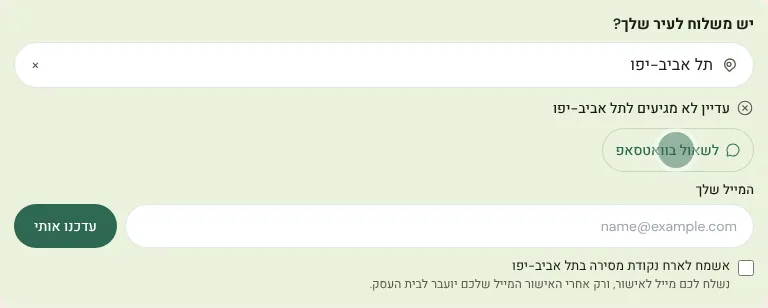
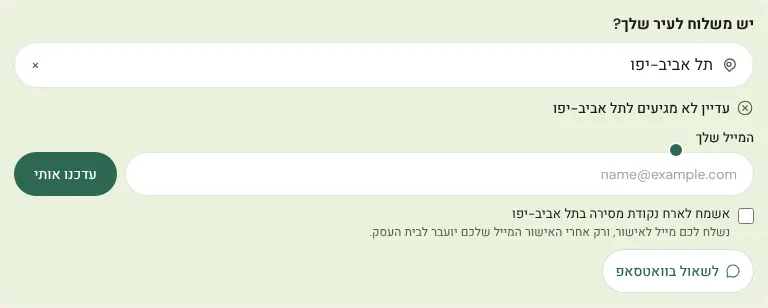
fix(delivery): chips in DOM order instead of CSS order (MEH-2709 review)
The reviewer pointed out that `order-first`/`order-last` made the tab and
screen-reader order differ from the visual one. Render the waitlist first
in the JSX and drop `order-*`; when it opens, the form takes the row and
the WhatsApp chip wraps below it. New test pins the DOM order (red on the
previous commit, green now). Screenshots retaken. Dropped a history
parenthetical from the insights comment.

Builder-Model: claude-opus-5-5
Claude-Session: https://claude.ai/code/session_01X8DSqV4YUbFZZP18QxbuCR

Changed region(s): [[0.0, 0.4091, 1.0, 0.9643]]

diff --git a/frontend/components/DeliveryChecker.jsx b/frontend/components/DeliveryChecker.jsx
@@ -200,11 +200,13 @@ export default function DeliveryChecker({
                 page in every state. */}
             {/* MEH-2709: the two follow-ups sit as one row of chips under
                 the verdict (it already names the city, so they don't repeat
-                it). The waitlist chip is visually first via `order`; once it
-                opens into a form it takes a full row of its own below. */}
+                it). DOM order = visual order (waitlist first), so keyboard
+                and screen-reader order match what is seen. Once the waitlist
+                opens into a form it takes a full row and the WhatsApp chip
+                wraps below it. `empty:hidden`: both children return null
+                (no element at all) when they have nothing to offer. */}
             {result.status === "no" && (
               <div className="mt-2.5 flex flex-wrap gap-2 empty:hidden" data-testid="delivery-checker-no-actions">
-                <CoverageRequestCta producer={producer} city={result.city} />
                 {/* MEH-2618: the no-account waitlist, same single mount rule.
                     Keyed by city so a new verdict starts a fresh form instead
                     of showing "נודיע לך כשיגיעו לחיפה" under a נתניה verdict. */}
@@ -213,6 +215,7 @@ export default function DeliveryChecker({
                   producer={producer}
                   city={result.city}
                 />
+                <CoverageRequestCta producer={producer} city={result.city} />
               </div>
             )}
           </>

diff --git a/frontend/components/DeliveryWaitlistForm.jsx b/frontend/components/DeliveryWaitlistForm.jsx
@@ -87,7 +87,7 @@ export default function DeliveryWaitlistForm({ producer = null, city = "" }) {
 
   if (phase === "done") {
     return (
-      <div className="order-last basis-full" data-testid="delivery-waitlist" data-phase="done">
+      <div className="basis-full" data-testid="delivery-waitlist" data-phase="done">
         <p
           className="flex items-center gap-2 text-sm font-medium text-primary"
           data-testid="delivery-waitlist-done"
@@ -127,7 +127,7 @@ export default function DeliveryWaitlistForm({ producer = null, city = "" }) {
 
   if (phase === "idle") {
     return (
-      <p className="order-first" data-testid="delivery-waitlist" data-phase="idle">
+      <p data-testid="delivery-waitlist" data-phase="idle">
         <button
           type="button"
           onClick={() => setPhase("open")}
@@ -150,7 +150,7 @@ export default function DeliveryWaitlistForm({ producer = null, city = "" }) {
   return (
     <form
       onSubmit={submit}
-      className="order-last basis-full"
+      className="basis-full"
       data-testid="delivery-waitlist"
       data-phase={phase}
     >

diff --git a/frontend/__tests__/DeliveryWaitlistForm.test.jsx b/frontend/__tests__/DeliveryWaitlistForm.test.jsx
@@ -126,6 +126,17 @@ describe("DeliveryWaitlistForm on the checker's negative verdict (MEH-2618)", ()
     expect(box.split("נתניה").length - 1).toBe(1);
   });
 
+  // MEH-2709: the chips are ordered in the DOM (not with CSS `order`), so
+  // the tab / screen-reader order is the order seen: waitlist, then WhatsApp.
+  it("puts the waitlist chip before the WhatsApp chip in DOM order", async () => {
+    setup();
+    commitCity("נתניה");
+    await waitFor(() => expect(form()).toBeTruthy());
+    const row = screen.getByTestId("delivery-checker-no-actions");
+    const ids = [...row.children].map((el) => el.dataset.testid);
+    expect(ids).toEqual(["delivery-waitlist", "coverage-request-cta"]);
+  });
+
   it("guest: opens an empty email field and posts email + city, then confirms", async () => {
     post.mockResolvedValue({ status: 201, data: { status: "added" } });
     setup();

diff --git a/frontend/app/[locale]/producer/dashboard/insights/page.js b/frontend/app/[locale]/producer/dashboard/insights/page.js
@@ -350,7 +350,7 @@ function PickupHostsCard({ data }) {
 
 /**
  * MEH-1676 — "ביקוש מאזורים חדשים": one row per city whose visitors tapped
- * «לשאול בוואטסאפ» (MEH-2709; was «אפשר לשאול את בית העסק») in the last 30 days, most
+ * «לשאול בוואטסאפ» in the last 30 days, most
  * requested first (server order). Three count states (0 / 1 / many) per
  * the 5-state rule; no open/closed state. The scope line follows the
  * Google Business Profile pattern: name the action counted, say what the
